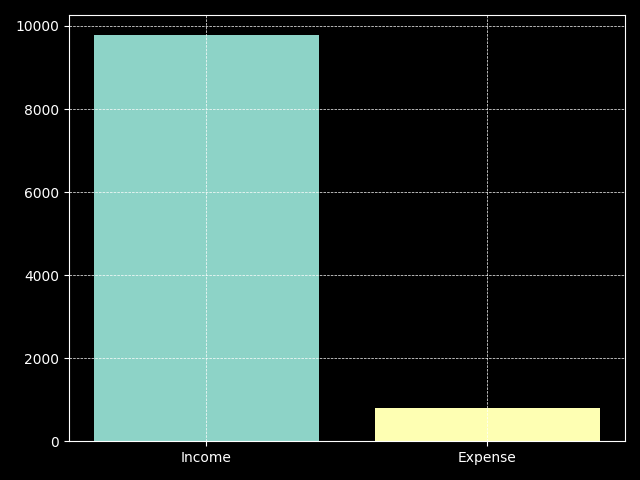
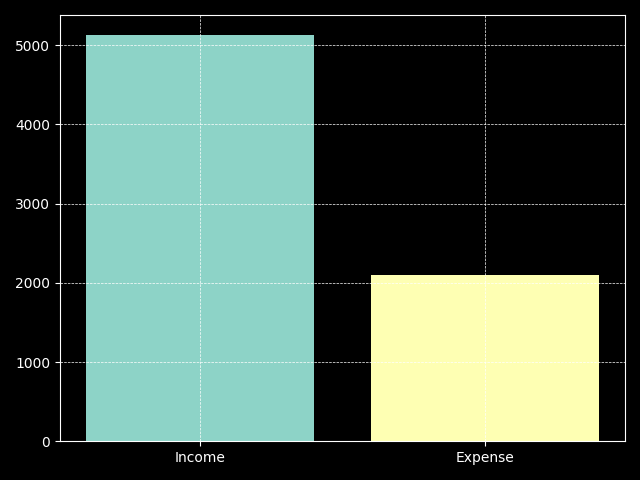
Functional App, Ready for submission

diff --git a/final_project/templates/index.html b/final_project/templates/index.html
@@ -71,7 +71,7 @@
     <div class="space20">
     </div>
 
-    <h1>Your Dashboard for {{ month_name }} - {{ month_year }}</h1>
+    <h1>{{dashM}} {{ startM }} {{  dashMDate }} {{ startY }}</h1>
 
      <!-- Spacer -->
     <div class="space20">
@@ -80,6 +80,8 @@
      <!-- Spacer -->
     <div class="space20">
     </div>
+
+    
     <!-- Row account/transactions-->
     <div class="row">
 

diff --git a/final_project/app.py b/final_project/app.py
@@ -292,7 +292,7 @@ def get_charts():
     con = conDbDict()
     cur = con.cursor()
 
-    accounts = cur.execute("SELECT account_name, balance_cents/100 AS balance, id FROM accounts WHERE user_id = ?", (user["id"],)).fetchall()
+    accounts = cur.execute("SELECT account_name, printf('%.2f', balance_cents / 100.0) AS balance, id FROM accounts WHERE user_id = ?", (user["id"],)).fetchall()
 
     con.close()
 
@@ -302,10 +302,12 @@ def get_charts():
         # Set start and end dates as first and last day of current month
         current_date = date.today()
         start = current_date + relativedelta(day=1)
-        end = current_date + relativedelta(months=1)
+        end = current_date + relativedelta(day=31)
 
-        month_name = start.strftime("%B")
-        month_year = start.strftime("%Y") 
+        print(f"CONSOL DEBUG: start: {start}, end: {end}")
+
+        startM = start.strftime("%B")
+        startY = start.strftime("%Y") 
 
         # Line Graph: Expenses
         try:
@@ -327,59 +329,89 @@ def get_charts():
 
 
         # Fetch user transaction
-        transactions = getTrans(5)
+        transactions = getTrxData(start, end)
 
-        searchedAcc = accounts        
+        searchedAcc = accounts
 
-        return render_template("index.html", accounts=accounts, categories=categories, bar="static/my_bar_expesne_vs_income.png", chart="static/my_line-expsnses.png", month_name=month_name, month_year=month_year, pie="static/my_pie_expenses.png", searchedAcc=searchedAcc, transactions=transactions, types=TYPES, user=user)
+        dashM = f"Your Dashboard for {startM} {startY}"
+
+        return render_template("index.html", accounts=accounts, categories=categories, dashM=dashM, bar="static/my_bar_expesne_vs_income.png", chart="static/my_line-expsnses.png", pie="static/my_pie_expenses.png", searchedAcc=searchedAcc, transactions=transactions, types=TYPES, user=user)
     
     
     # Generates Graphes based on filters
     else:
 
-        # Request user filters & set empty fields to None
+        # Request user filters & standardise empty fields to None
         account = request.form.get("filter-account-id")
         if (account == ""):
             account = None
 
-        # Request date filters, apply curent month start and end date if date fields empty
         start = request.form.get("filter-start")
-
-        # No user input - Set defualt date
         if (start == ""):
             start = None
-            month_name = ""
-        # User input - Format date from str
         else:
             try:
                 start = date.fromisoformat(start)
             except:
                 start = date.strptime(start, "%Y-%m-%d")
-            
-            month_name = start
-            
-
+                
         end = request.form.get("filter-end")
         # No user input - Set defualt date
         if (end == ""):
             end = None
-            month_year = ""
-
-        # User input - Format date from str
         else:
             try:
                 end = date.fromisoformat(end)
             except:
                 end = date.strptime(end, "%Y-%m-%d")
 
-            month_year = end
 
-        # Checks start is before end 
+        # Checks start is before end and set messaging
         if(start and end):
             if (start > end):
                 flash("Error: Please end date must be after start date")
                 return redirect("/")
-                    
+            
+            dashM = f"Your Dashboard for {start.strftime("%d/%m/%Y")} to {end.strftime("%d/%m/%Y")}"
+
+        elif (start and not end):
+            dashM = f"Your Dashboard for transactions on {start.strftime("%d/%m/%Y")}"
+
+        elif (end and not start):
+            dashM = f"Your Dashboard for transactions on {end.strftime("%d/%m/%Y")}"
+
+        elif (not start and not end): 
+            dashM = f"Your Dashboard for all transactions"
+
+         
+        # Generate Charts
+        try:
+            getLine(start, end, account)
+        except:
+            return render_template("error.html", message="Error with line graph")
+        
+        getBar(start, end)
+        try:
+            getBar(start, end, account)
+        except:
+            return render_template("error.html", message="Error with bar graph")
+
+        try:
+            getPie(start, end, account)
+        except:
+            return render_template("error.html", message="Error with pie graph")
+        
+        # Query DB for transactions and accounts
+        transactions = getTrxData(start, end, account)
+
+        con = conDbDict()
+        cur = con.cursor()
+
+        searchedAcc = cur.execute("SELECT account_name, printf('%.2f', balance_cents / 100.0) balance, id FROM accounts WHERE user_id = ? and id = ?", (user["id"], account)).fetchall()
+
+        con.close()
+
+        return render_template("index.html", accounts=accounts, categories=categories, bar="static/my_bar_expesne_vs_income.png", chart="static/my_line-expsnses.png", dashM=dashM, pie="static/my_pie_expenses.png", start=start, end=end, searchedAcc=searchedAcc, transactions=transactions, types=TYPES, user=user)
 
         # Match case based on filter options
         match (account):

diff --git a/final_project/helpers.py b/final_project/helpers.py
@@ -61,6 +61,10 @@ def getBar(start = None, end = None, accId = None):
      trxData = cur.execute(query, params).fetchall()
      con.close()
 
+     totIncome = 0.00
+
+     totExpense = 0.00
+
      for i in trxData:
           if i["trans_type"] == "income":
                totIncome = i["total"]
@@ -166,7 +170,7 @@ def getLine(start, end, accId = None):
 
      for i in data:
           # Append expense data to expense vars
-          if (i["trans_type"] == TYPES[0]):
+          if (i["trans_type"] == "expense"):
                try:
                     dt = datetime.fromisoformat(i["trans_date"])
                except:
